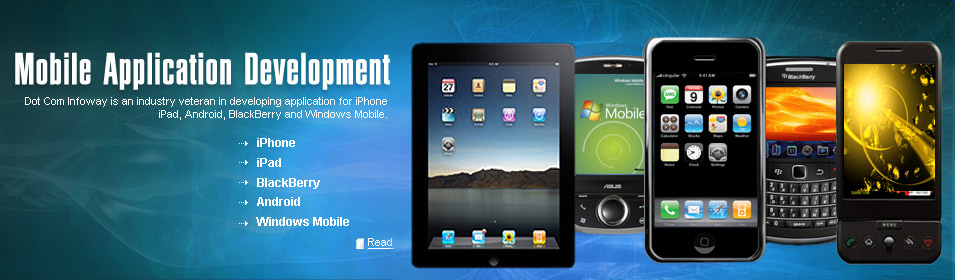
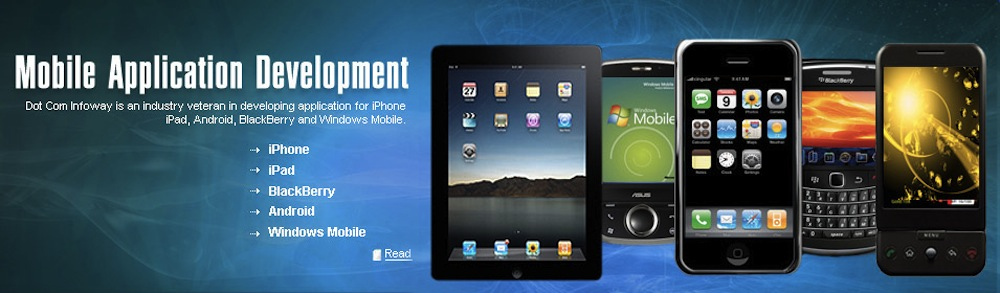
image size changed

diff --git a/Index.html b/Index.html
@@ -5,9 +5,9 @@
 	<meta charset="utf-8" />
 	<title>SoaCloud9</title>
 	<link rel="stylesheet" href="main.css" />
-	<link rel="stylesheet" href="slider.css" />
+	<link rel="stylesheet" href="slider2.css" />
 	<script src="soa.js" type="text/javascript"></script>
-	<script src="slider.js" type="text/javascript"></script>
+<!--	<script src="slider.js" type="text/javascript"></script>-->
 	<!--[if lt IE 9]>
 	<script src="//html5shiv.googlecode.com/svn/trunk/html5.js"></script>
 	<![endif]-->
@@ -32,16 +32,10 @@
 				
 			</nav> 
 			
-			<button id="search_button" type="button" onclick="startSearch()">
-			<img src="images/search.png" width="20%" height="10%" />
-			</button>
-			
-			<input id="search_text" type="text" name="search" placeholder="Search" />
-<!--			<canvas id="headercanvas" width="640" height="40"></canvas>-->
-<!--			<img src="http://profile.ak.fbcdn.net/hprofile-ak-snc4/203489_177020489014563_7535876_n.jpg" alt="1" />-->
+			<input id="search_text" type="search" results="5" placeholder="Search"  maxlength="30" onsearch="startSearch()"/>
 		
-		    <div id="slide1_container">
-		    	<div id="banner">
+		    <!--<div id="slide1_container">
+		    	<div id="banner" class="slideshow-example-frame">
 		    	
 		    	<img class="slideshow1" src="images/mobile-app-development.jpg"  ="">
 		    	<img class="slideshow2" src="images/moss.jpg"  ="">
@@ -49,14 +43,9 @@
 		    	<img class="slideshow4" src="images/web-design-solutions.jpg"  ="">
 		    	
 		    	</div>
-		    </div>
-		    <p id="slide1_controls">
-		    	<span id="slide1-1">Image 1</span>
-		    	<span id="slide1-2">Image 2</span>
-		    	<span id="slide1-3">Image 3</span>
-		    	<span id="slide1-4">Image 4</span>
-		    </p>
-		</header>
+		    </div>-->
+	
+			</header>
 		
 		<nav id="main_nav">
 		    <ul>
@@ -160,6 +149,17 @@
 		      </li>
 		    </ul>
 		</nav>
+		
+		<div id="slide1_container">
+			<div id="banner" class="slideshow-example-frame">
+			
+			<img class="slideshow1" src="images/mobile-app-development.jpg"  ="">
+			<img class="slideshow2" src="images/moss.jpg"  ="">
+			<img class="slideshow3" src="images/open-source-solutions.jpg"  ="">
+			<img class="slideshow4" src="images/web-design-solutions.jpg"  ="">
+			
+			</div>
+		</div>
 		
 		<section id="main_section">
 			<article id="first_article">

diff --git a/test.html b/test.html
@@ -1,0 +1,24 @@
+<!DOCTYPE html>
+<html lang="en">
+<head>
+    <meta charset="UTF-8">
+    <title>Using the search field in HTML5</title>
+    <script src="soa.js" type="text/javascript"></script>
+</head>
+<body>
+ 
+    <input id="search_text" type="search" placeholder="Search..." onsearch="startSearch()">
+    <div id="output"></div>
+ 
+    <!--<script type="text/javascript">
+        var out = document.getElementById("output"),
+            sea = document.getElementById("search-field");
+ 
+        function searchHandler(evt) {
+            var val = sea.value;
+            out.innerHTML = "<p>You searched for: '<kbd>" + val + "</kbd>' <sup>[" + val.length + " chars]</sup></p>";
+        }
+    </script>-->
+ 
+</body>
+</html>
